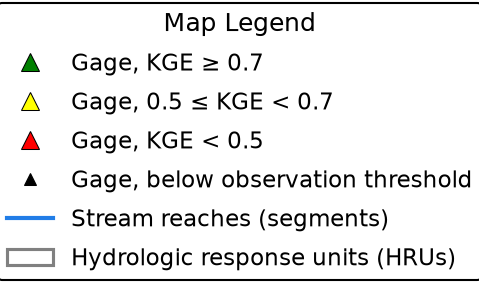
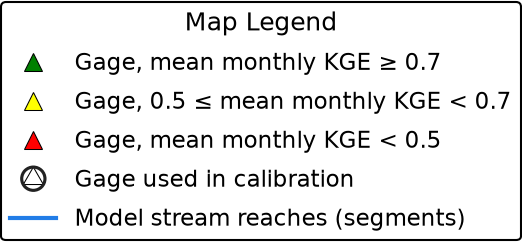
GFv2 maps: label HRUs by nhm_id, ring calibration gages from npoigages_cal_list, update v2 legend

Changed region(s): [[0.0, 0.0, 1.0, 1.0], [0.1461, 0.8354, 0.9645, 0.9506]]

diff --git a/src/assist/common/hydrofabric.py b/src/assist/common/hydrofabric.py
@@ -8,6 +8,7 @@ Implementations come from the nhf side, which already tolerates both the GFv1.1
 and GFv2 geopackage column layouts; the nhm versions assume GFv1.1 columns and
 cannot read a GFv2 model.
 """
+from pathlib import Path
 import numpy as np
 import pandas as pd
 
@@ -510,6 +511,7 @@ def create_poi_df(
     default_gages_file,
     waterdata_gage_nobs_min,
     seg_gdf,
+    fabric_version="1.1",
 ):
     """
     Create dataframe containing gages listed in parameter file.
@@ -580,16 +582,18 @@ def create_poi_df(
     poi = poi.merge(npoigages_info, left_on="poi_gage_id", right_on="poi_gage_id", how="left")
     poi_df = pd.DataFrame(poi)  # Creates a Pandas DataFrame
 
-    # The byHWobs calibration-gages CSV is a fixed NHM data dependency with a
-    # native `poi_id` header; the loader canonicalizes it to `poi_gage_id`.
-    byHWobs_poi_df = _load_byhwobs_cal_gages(root_dir)
-
-    # Identify the byHWobs calibration gages in our current poi database (ammended
-    # in the model prams file to include more gages). nhm's map_template reads
-    # nhm_calib in create_streamflow_poi_markers.
+    # Flag the calibration gages in nhm_calib, which nhm's map_template reads in
+    # create_streamflow_poi_markers. GFv1.1 fabrics use the fixed NHM byHWobs
+    # list (a CSV with a native `poi_id` header; the loader canonicalizes it to
+    # `poi_gage_id`). GFv2 fabrics were not calibrated against that list, so they
+    # use the model's own npoigages_cal_list_<domain>.xlsx instead.
+    if str(fabric_version).startswith("2"):
+        cal_gage_ids = _load_ohm_cal_gages(Path(model_dir) / "metadata")
+    else:
+        cal_gage_ids = set(_load_byhwobs_cal_gages(root_dir)["poi_gage_id"])
     poi_df["nhm_calib"] = "N"
     poi_df.loc[
-        poi_df["poi_gage_id"].isin(byHWobs_poi_df["poi_gage_id"]), "nhm_calib"
+        poi_df["poi_gage_id"].astype(str).str.strip().isin(cal_gage_ids), "nhm_calib"
     ] = "Y"
 
     """
@@ -867,6 +871,7 @@ def make_hf_map_elements(
         default_gages_file=default_gages_file,
         waterdata_gage_nobs_min=waterdata_gage_nobs_min,
         seg_gdf=seg_gdf,
+        fabric_version=fabric_version,
     )
     waterdata_gages_aoi = fetch_waterdata_gage_info(
         root_dir=root_dir,
@@ -1006,6 +1011,33 @@ def evaluate_and_fix_nhru_geometry(gpkg_path, layer="nhru", fix=True):
         print("  All geometries are valid. No fix needed.")
 
     return report
+
+def _load_ohm_cal_gages(metadata_dir):
+    """Gage ids flagged ``ohm_cal == "yes"`` in the GFv2 calibration list.
+
+    The list is ``npoigages_cal_list_<domain>.xlsx`` (or ``.xls``) in the model's
+    ``metadata`` folder; the domain name differs by model, so the file is found by
+    pattern. Returns an empty set, with a printed notice, when there is no such
+    file or more than one, so no gage is marked as calibrated by guesswork.
+    """
+    metadata_dir = Path(metadata_dir)
+    files = sorted(
+        f
+        for ext in ("xlsx", "xls")
+        for f in metadata_dir.glob(f"npoigages_cal_list_*.{ext}")
+        if not f.name.startswith("~$")  # Excel lock files
+    )
+    if len(files) != 1:
+        found = "none found" if not files else ", ".join(f.name for f in files)
+        print(
+            f"No calibration gages marked on the map: expected exactly one "
+            f"npoigages_cal_list_<domain>.xlsx in {metadata_dir} ({found})."
+        )
+        return set()
+    cal_df = pd.read_excel(files[0], dtype={"poi_gage_id": str})
+    flag = cal_df["ohm_cal"].astype(str).str.strip().str.lower()
+    return set(cal_df.loc[flag == "yes", "poi_gage_id"].astype(str).str.strip())
+
 
 def _load_byhwobs_cal_gages(root_dir):
     """Load the fixed NHM byHWobs calibration-gages CSV.

diff --git a/tests/unification/test_hydrofabric_poi.py b/tests/unification/test_hydrofabric_poi.py
@@ -47,13 +47,23 @@ INTENDED_EDITS = {
         ),
         # nhm's create_streamflow_poi_markers reads nhm_calib -> notebook 6,
         # KeyError: 'nhm_calib'.
+        # GFv2 fabrics take their calibration gages from the model's own
+        # npoigages_cal_list_<domain>.xlsx instead of the v1.1 byHWobs list, so
+        # create_poi_df needs fabric_version.
+        (
+            "    seg_gdf,\n):",
+            '    seg_gdf,\n    fabric_version="1.1",\n):',
+        ),
         (
             '    poi_df = pd.DataFrame(poi)  # Creates a Pandas DataFrame\n',
             '    poi_df = pd.DataFrame(poi)  # Creates a Pandas DataFrame\n'
-            '    byHWobs_poi_df = _load_byhwobs_cal_gages(root_dir)\n'
+            '    if str(fabric_version).startswith("2"):\n'
+            '        cal_gage_ids = _load_ohm_cal_gages(Path(model_dir) / "metadata")\n'
+            '    else:\n'
+            '        cal_gage_ids = set(_load_byhwobs_cal_gages(root_dir)["poi_gage_id"])\n'
             '    poi_df["nhm_calib"] = "N"\n'
             '    poi_df.loc[\n'
-            '        poi_df["poi_gage_id"].isin(byHWobs_poi_df["poi_gage_id"]), "nhm_calib"\n'
+            '        poi_df["poi_gage_id"].astype(str).str.strip().isin(cal_gage_ids), "nhm_calib"\n'
             '    ] = "Y"\n',
         ),
     ],
@@ -80,9 +90,18 @@ def test_copy_is_ast_identical_to_nhf(name, nhf_baseline):
 def test_signature_matches_nhf(name, nhf_baseline):
     import assist.common.hydrofabric as common
 
-    assert inspect.signature(getattr(common, name)) == inspect.signature(
-        getattr(nhf_baseline, name)
-    )
+    current = inspect.signature(getattr(common, name))
+    baseline = inspect.signature(getattr(nhf_baseline, name))
+    if name == "create_poi_df":
+        # Deliberate addition, see INTENDED_EDITS: GFv2 calibration gages.
+        assert list(current.parameters) == [*baseline.parameters, "fabric_version"]
+        assert current.parameters["fabric_version"].default == "1.1"
+        current = current.replace(
+            parameters=[
+                p for p in current.parameters.values() if p.name != "fabric_version"
+            ]
+        )
+    assert current == baseline
 
 
 def test_default_gages_uses_the_canonical_gage_lookup():

diff --git a/tests/unification/test_hydrofabric_carried_over.py b/tests/unification/test_hydrofabric_carried_over.py
@@ -83,6 +83,13 @@ def test_map_elements_survived_and_is_verbatim_nhf():
             "        fabric_version=fabric_version,\n    )",
         ),
         (
+            # fabric_version is threaded into create_poi_df so GFv2 fabrics read
+            # their calibration gages from npoigages_cal_list_<domain>.xlsx.
+            "        seg_gdf=seg_gdf,\n    )\n    waterdata_gages_aoi",
+            "        seg_gdf=seg_gdf,\n        fabric_version=fabric_version,\n    )\n"
+            "    waterdata_gages_aoi",
+        ),
+        (
             "        #hru_cal_level_txt,",
             "        hru_cal_level_txt,",
         ),

diff --git a/src/assist/common/map_template.py b/src/assist/common/map_template.py
@@ -411,7 +411,9 @@ def create_hru_label(hru_gdf, cluster_zoom):
     )
 
     for idx, row in hru_gdf.iterrows():
-        text = f'{row["hru_id"]}'
+        # Label with the nhm_id, matching the HRU popups. hru_id is only the
+        # model-local position in the parameter file.
+        text = f'{row["nhm_id"]}'
         label_lat = row["hru_lat"]
         label_lon = row["hru_lon"]
         marker_label = folium.map.Marker(
